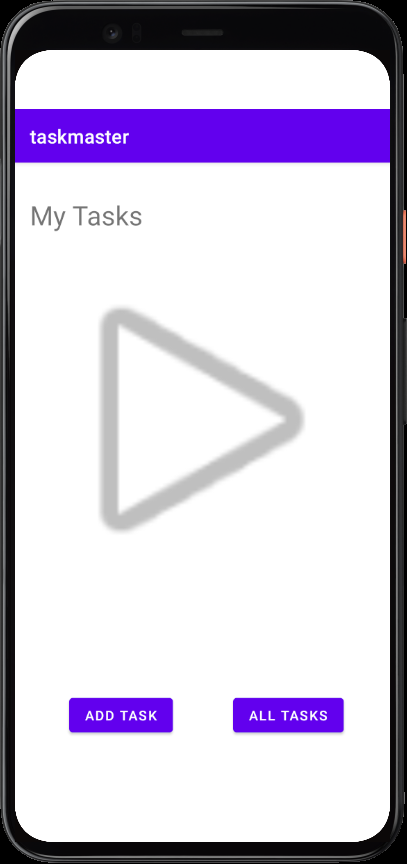
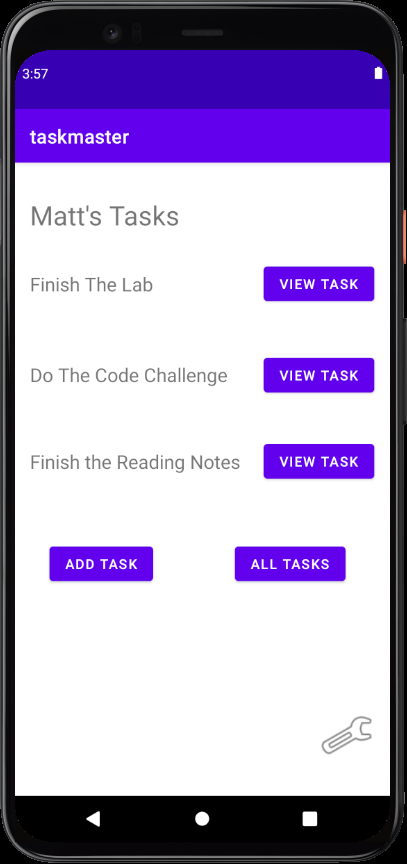
completed lab 27

diff --git a/app/src/main/java/com/mattc/taskmaster/activities/MainActivity.java b/app/src/main/java/com/mattc/taskmaster/activities/MainActivity.java
@@ -1,30 +1,86 @@
 package com.mattc.taskmaster.activities;
 
+import static com.mattc.taskmaster.activities.SettingsActivity.USERNAME_KEY;
+
 import androidx.appcompat.app.AppCompatActivity;
 
 import android.content.Intent;
+import android.content.SharedPreferences;
+import android.content.res.Resources;
 import android.os.Bundle;
+import android.preference.PreferenceManager;
 import android.widget.Button;
+import android.widget.ImageView;
+import android.widget.TextView;
 
 import com.mattc.taskmaster.R;
 
 public class MainActivity extends AppCompatActivity {
+
+    public final static String TASK_TITLE_EXTRA_STRING = "taskTitle";
+    protected static SharedPreferences sharedPreferences;
+    protected static Resources res;
 
     @Override
     protected void onCreate(Bundle savedInstanceState) {
         super.onCreate(savedInstanceState);
         setContentView(R.layout.activity_main);
 
-        Button addTaskButton = (Button) findViewById(R.id.addTaskButton);
+        sharedPreferences = PreferenceManager.getDefaultSharedPreferences(this);
+        res = getResources();
+
+        Button addTaskButton = findViewById(R.id.addTaskButton);
         addTaskButton.setOnClickListener(view -> {
             Intent addTaskIntent = new Intent(MainActivity.this, AddATaskActivity.class);
             startActivity(addTaskIntent);
         });
 
-        Button allTasksButton = (Button) findViewById(R.id.allTasksButton);
+        Button allTasksButton = findViewById(R.id.allTasksButton);
         allTasksButton.setOnClickListener(view -> {
             Intent allTasksIntent = new Intent(MainActivity.this, AllTasksActivity.class);
             startActivity(allTasksIntent);
         });
+
+        Button task1Button = findViewById(R.id.task1Button);
+        task1Button.setOnClickListener(view -> {
+            TextView task1TextView = findViewById(R.id.task1TextView);
+            Intent taskDetailIntent = new Intent(MainActivity.this, TaskDetailActivity.class);
+            taskDetailIntent.putExtra(TASK_TITLE_EXTRA_STRING, task1TextView.getText());
+            startActivity(taskDetailIntent);
+        });
+
+        Button task2Button = findViewById(R.id.task2Button);
+        task2Button.setOnClickListener(view -> {
+            TextView task2TextView = findViewById(R.id.task2TextView);
+            Intent taskDetailIntent = new Intent(MainActivity.this, TaskDetailActivity.class);
+            taskDetailIntent.putExtra(TASK_TITLE_EXTRA_STRING, task2TextView.getText());
+            startActivity(taskDetailIntent);
+        });
+
+        Button task3Button = findViewById(R.id.task3Button);
+        task3Button.setOnClickListener(view -> {
+            TextView task3TextView = findViewById(R.id.task3TextView);
+            Intent taskDetailIntent = new Intent(MainActivity.this, TaskDetailActivity.class);
+            taskDetailIntent.putExtra(TASK_TITLE_EXTRA_STRING, task3TextView.getText());
+            startActivity(taskDetailIntent);
+        });
+
+        ImageView settingsImageView = findViewById(R.id.settingsImageView);
+        settingsImageView.setOnClickListener(view -> {
+            Intent settingsActivityIntent = new Intent(MainActivity.this, SettingsActivity.class);
+            startActivity(settingsActivityIntent);
+        });
     }
+
+    @Override
+    protected void onResume() {
+        super.onResume();
+
+        String username = sharedPreferences.getString(USERNAME_KEY, "");
+
+        if (!username.equals("")) {
+            ((TextView) findViewById(R.id.myTaskTextView)).setText(res.getString(R.string.WelcomeUsername, username));
+        }
+    }
+
 }

diff --git a/app/src/main/java/com/mattc/taskmaster/activities/SettingsActivity.java b/app/src/main/java/com/mattc/taskmaster/activities/SettingsActivity.java
@@ -1,0 +1,43 @@
+package com.mattc.taskmaster.activities;
+
+import androidx.appcompat.app.AppCompatActivity;
+
+import android.content.SharedPreferences;
+import android.os.Bundle;
+import android.preference.PreferenceManager;
+import android.widget.Button;
+import android.widget.EditText;
+import android.widget.Toast;
+
+import com.google.android.material.snackbar.Snackbar;
+import com.mattc.taskmaster.R;
+
+public class SettingsActivity extends AppCompatActivity {
+
+    public final static String TAG = "mattycho_taskamster_settingsactivity";
+    public final static String USERNAME_KEY = "username";
+    protected static SharedPreferences sharedPreferences;
+    protected static SharedPreferences.Editor sharedPreferencesEditor;
+
+    @Override
+    protected void onCreate(Bundle savedInstanceState) {
+        super.onCreate(savedInstanceState);
+        setContentView(R.layout.activity_settings);
+
+        sharedPreferences = PreferenceManager.getDefaultSharedPreferences(this);
+        sharedPreferencesEditor = sharedPreferences.edit();
+
+        EditText usernamePlainText = findViewById(R.id.usernameEditText);
+        String username2 = sharedPreferences.getString(USERNAME_KEY, "");
+        usernamePlainText.setText(username2);
+
+        Button saveSettingsButton = findViewById(R.id.saveSettingsButton);
+        saveSettingsButton.setOnClickListener(view -> {
+            String username = usernamePlainText.getText().toString();
+            sharedPreferencesEditor.putString(USERNAME_KEY, username);
+            sharedPreferencesEditor.apply();
+            Snackbar.make(findViewById(R.id.SettingsActivity), R.string.settingsSaved, Snackbar.LENGTH_SHORT).show();
+//            Toast.makeText(this, R.string.settingsSaved, Toast.LENGTH_SHORT).show();
+        });
+    }
+}

diff --git a/app/src/main/java/com/mattc/taskmaster/activities/TaskDetailActivity.java b/app/src/main/java/com/mattc/taskmaster/activities/TaskDetailActivity.java
@@ -1,0 +1,23 @@
+package com.mattc.taskmaster.activities;
+
+import androidx.appcompat.app.AppCompatActivity;
+
+import android.content.Intent;
+import android.os.Bundle;
+import android.widget.TextView;
+
+import com.mattc.taskmaster.R;
+
+public class TaskDetailActivity extends AppCompatActivity {
+
+    @Override
+    protected void onCreate(Bundle savedInstanceState) {
+        super.onCreate(savedInstanceState);
+        setContentView(R.layout.activity_task_detail);
+
+        Intent intent = getIntent();
+        String taskTitle = intent.getExtras().get(MainActivity.TASK_TITLE_EXTRA_STRING).toString();
+        TextView taskTitleTextView = findViewById(R.id.taskTitleTextView);
+        taskTitleTextView.setText(taskTitle);
+    }
+}

diff --git a/README.md b/README.md
@@ -15,9 +15,22 @@ A simple task managing app built for Android Studio practice. The app contains 3
 - Submit button will display a "submitted!" message.
 - `All Tasks` page, currently no functions, just displays an image.
 
+### [1.0.1] - 2021-10-26
+### Added
+- `TaskDetail` activity that displays the title and description of the task.
+- `Settings` activity that allows the user to save a username which is reflected on the `Homepage`.
+
+### Changed
+- `Homepage` now has 3 hardcoded tasks with a button that takes it to a `TaskDetail` page.
+- `Homepage` also has a wrench icon that takes the user to the settings page.
+
 ### Screenshots
 ![homepage](screenshots/Homepage.png)
 
 ![addTask](screenshots/AddTask.png)
 
 ![allTasks](screenshots/AllTasks.png)
+
+![taskDetails](screenshots/TaskDetails.png)
+
+![settings](screenshots/Settings.png)
